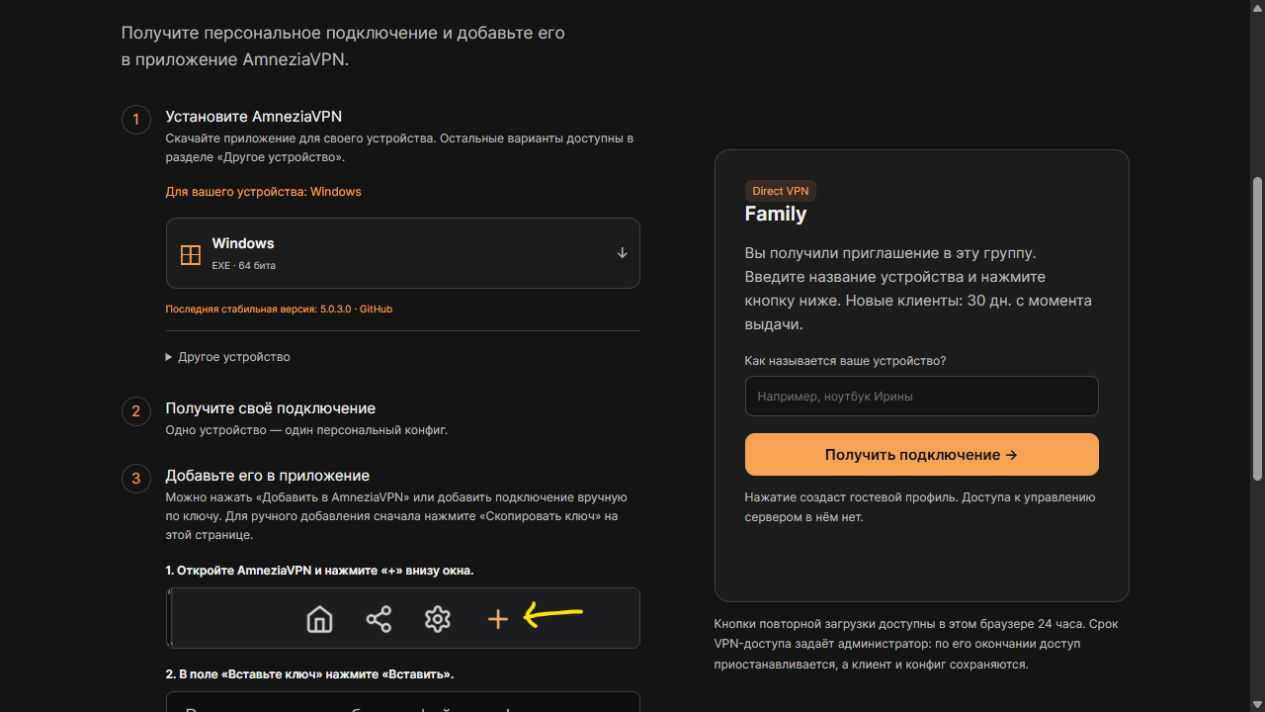
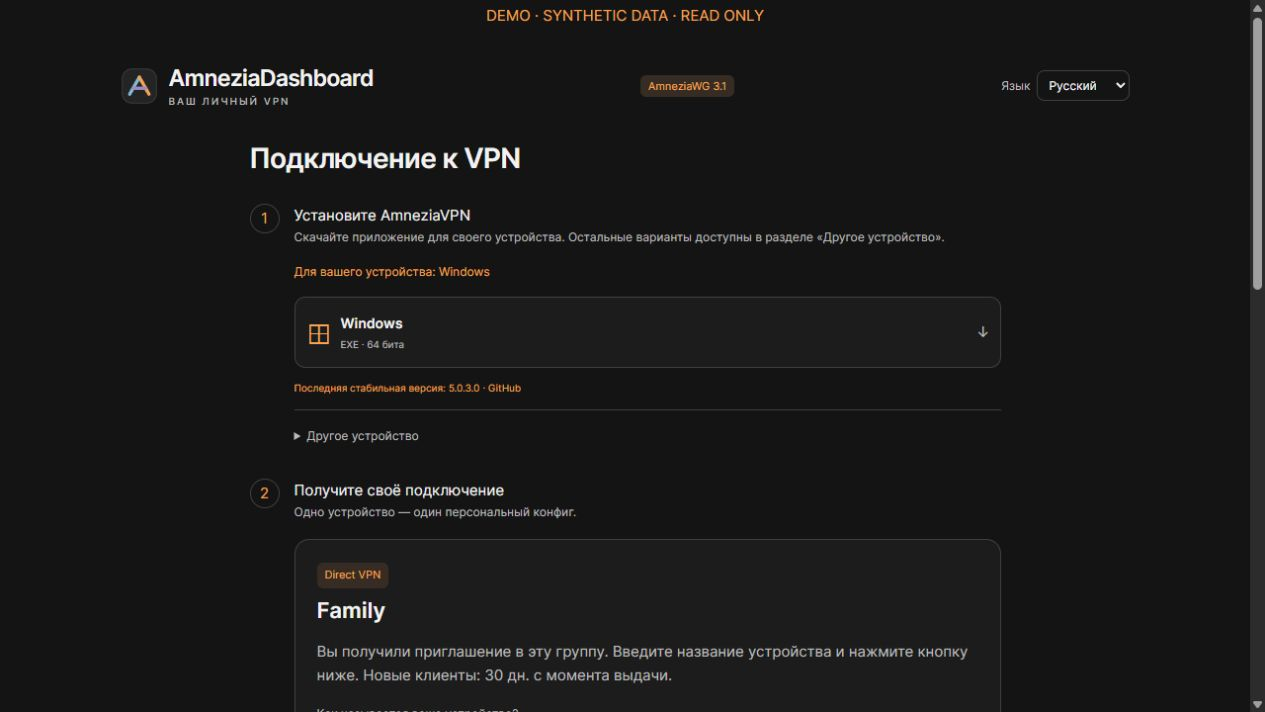
Keep invitation setup personal and place profile issuance in step two

diff --git a/installer/portable/app/static/join.html b/installer/portable/app/static/join.html
@@ -1,4 +1,4 @@
-<!doctype html><html lang="ru"><head><meta charset="utf-8"><meta name="viewport" content="width=device-width,initial-scale=1"><meta name="robots" content="noindex,nofollow"><title>AmneziaDashboard — подключить Amnezia VPN</title><link rel="icon" type="image/svg+xml" href="/static/dashboard-icon.svg"><link rel="stylesheet" href="/static/style.css"><script src="/static/i18n-en.js" defer></script><script src="/static/i18n.js" defer></script><script src="/static/client-access.js" defer></script><script src="/static/profile-import.js" defer></script><script src="/static/device-downloads.js" defer></script><script src="/static/join.js" defer></script></head><body><main class="join"><header><div class="brand"><img class="logo" src="/static/dashboard-icon.svg" alt="" width="36" height="36"><div>AmneziaDashboard<small>ВАШ ЛИЧНЫЙ VPN</small></div></div><span class="badge">AmneziaWG 3.1</span></header><div class="join-layout"><div><div class="eyebrow">Несколько простых шагов</div><h1>Ваш интернет.<br><span>Без лишних сложностей.</span></h1><p class="lead">Получите персональное подключение и добавьте его в приложение AmneziaVPN.</p><ol class="steps"><li>Установите AmneziaVPN<small>Скачайте приложение для своего устройства. Остальные варианты доступны в разделе «Другое устройство».</small>
+<!doctype html><html lang="ru"><head><meta charset="utf-8"><meta name="viewport" content="width=device-width,initial-scale=1"><meta name="robots" content="noindex,nofollow"><title>AmneziaDashboard — подключить Amnezia VPN</title><link rel="icon" type="image/svg+xml" href="/static/dashboard-icon.svg"><link rel="stylesheet" href="/static/style.css"><script src="/static/i18n-en.js" defer></script><script src="/static/i18n.js" defer></script><script src="/static/client-access.js" defer></script><script src="/static/profile-import.js" defer></script><script src="/static/device-downloads.js" defer></script><script src="/static/join.js" defer></script></head><body><main class="join"><header><div class="brand"><img class="logo" src="/static/dashboard-icon.svg" alt="" width="36" height="36"><div>AmneziaDashboard<small>ВАШ ЛИЧНЫЙ VPN</small></div></div><span class="badge">AmneziaWG 3.1</span></header><div class="join-guide"><h1 class="join-page-title">Подключение к VPN</h1><ol class="steps"><li id="step-install">Установите AmneziaVPN<small>Скачайте приложение для своего устройства. Остальные варианты доступны в разделе «Другое устройство».</small>
 <small id="device-download-caption" class="download-device" role="status">Выберите приложение для вашего устройства.</small>
 <div id="device-downloads" class="app-downloads" aria-label="Скачать AmneziaVPN для своего устройства">
 <a class="app-download" href="/download/android" data-platform="android" data-device-os="android"><span class="app-icon" aria-hidden="true">↧</span><span><strong>Android</strong><small data-download-hint="android">APK · Android 11+</small></span><span class="app-arrow" aria-hidden="true">↓</span></a>
@@ -14,10 +14,10 @@
 <small class="download-note" data-device-extra="ios">На iPhone приложение может быть недоступно в российском App Store. <a href="https://docs.amnezia.org/troubleshooting/amneziavpn_is_not_available_in_the_app_store/" target="_blank" rel="noopener noreferrer">Что делать ↗</a></small>
 </div>
 <details id="other-device-downloads" class="download-other" hidden><summary>Другое устройство</summary><div id="other-device-options" class="app-downloads"></div><div id="other-device-notes"></div></details>
-</li><li>Получите своё подключение<small>Одно устройство — один персональный конфиг.</small></li>
-<li>Добавьте его в приложение<small>Можно нажать «Добавить в AmneziaVPN» или добавить подключение вручную по ключу. Для ручного добавления сначала нажмите «Скопировать ключ» на этой странице.</small>
+</li><li id="step-profile">Получите своё подключение<small>Одно устройство — один персональный конфиг.</small><div class="join-profile"><section class="card" aria-labelledby="join-title"><div id="request-view"><span class="badge"><span data-no-i18n>__DASHBOARD_ROUTE_LABEL__</span></span><h2 id="join-title">Подключение по приглашению</h2><p class="muted" id="join-description">Проверяем приглашение…</p><form id="join-form" class="hidden"><label>Как называется ваше устройство?<input name="name" placeholder="Например, ноутбук Ирины" required maxlength="64" autocomplete="off"></label><button class="primary full" id="get-profile" type="submit">Получить подключение →</button><p class="help">Нажатие создаст гостевой профиль. Доступа к управлению сервером в нём нет.</p></form></div><div id="ready-view" class="hidden"><div class="success-icon">✓</div><h2>Всё готово!</h2><p class="muted">Добавьте своё подключение в AmneziaVPN. Приложение должно быть установлено.</p><p id="issued-expiry" class="help"></p><div class="splitbuttons"><button id="import-app" class="primary full" disabled>Добавить в AmneziaVPN ↗</button><p id="import-hint" class="help" role="status"></p><button id="download" class="full">Скачать файл .vpn ↓</button><button id="copy" class="full">Скопировать ключ</button></div><div class="notice">Android: кнопка откроет импорт в AmneziaVPN. iPhone/iPad: выберите AmneziaVPN в системном меню передачи файла. Импорт не включает VPN автоматически — подтвердите добавление и подключение в приложении.</div><p class="help">Не пересылайте свой файл другим людям. Для другого устройства получите отдельный профиль по приглашению.</p></div><p id="join-error" class="error" role="alert"></p></section><p class="help">Кнопки повторной загрузки доступны в этом браузере 24 часа. Срок VPN-доступа задаёт администратор: по его окончании доступ приостанавливается, а клиент и конфиг сохраняются.</p></div></li>
+<li id="step-import">Добавьте его в приложение<small>Можно нажать «Добавить в AmneziaVPN» или добавить подключение вручную по ключу. Для ручного добавления сначала нажмите «Скопировать ключ» на этой странице.</small>
 <div class="key-import-guide" aria-label="Как вставить ключ в AmneziaVPN">
 <figure><figcaption><strong>1. Откройте AmneziaVPN и нажмите «+» внизу окна.</strong></figcaption><img src="/static/amnezia-add-key.png" alt="Нижнее меню AmneziaVPN: жёлтая стрелка указывает на кнопку плюс справа." width="666" height="84" loading="lazy" decoding="async"></figure>
 <figure><figcaption><strong>2. В поле «Вставьте ключ» нажмите «Вставить».</strong></figcaption><img src="/static/amnezia-paste-key.png" alt="Экран добавления подключения AmneziaVPN: поле Вставьте ключ и кнопка Вставить справа." width="658" height="301" loading="lazy" decoding="async"></figure>
 <small>Если появится запрос доступа к буферу обмена, разрешите вставку. Подтвердите добавление подключения, затем нажмите «Подключиться». Вид приложения может немного отличаться на разных устройствах.</small>
-</div></li></ol></div><div><section class="card"><div id="request-view"><span class="badge"><span data-no-i18n>__DASHBOARD_ROUTE_LABEL__</span></span><h2 id="join-title">Подключение по приглашению</h2><p class="muted" id="join-description">Проверяем приглашение…</p><form id="join-form" class="hidden"><label>Как называется ваше устройство?<input name="name" placeholder="Например, ноутбук Ирины" required maxlength="64" autocomplete="off"></label><button class="primary full" id="get-profile" type="submit">Получить подключение →</button><p class="help">Нажатие создаст гостевой профиль. Доступа к управлению сервером в нём нет.</p></form></div><div id="ready-view" class="hidden"><div class="success-icon">✓</div><h2>Всё готово!</h2><p class="muted">Добавьте своё подключение в AmneziaVPN. Приложение должно быть установлено.</p><p id="issued-expiry" class="help"></p><div class="splitbuttons"><button id="import-app" class="primary full" disabled>Добавить в AmneziaVPN ↗</button><p id="import-hint" class="help" role="status"></p><button id="download" class="full">Скачать файл .vpn ↓</button><button id="copy" class="full">Скопировать ключ</button></div><div class="notice">Android: кнопка откроет импорт в AmneziaVPN. iPhone/iPad: выберите AmneziaVPN в системном меню передачи файла. Импорт не включает VPN автоматически — подтвердите добавление и подключение в приложении.</div><p class="help">Не пересылайте свой файл другим людям. Для другого устройства получите отдельный профиль по приглашению.</p></div><p id="join-error" class="error" role="alert"></p></section><p class="help">Кнопки повторной загрузки доступны в этом браузере 24 часа. Срок VPN-доступа задаёт администратор: по его окончании доступ приостанавливается, а клиент и конфиг сохраняются.</p></div></div><footer class="route"><span>Маршрут подключения<br><b><span data-no-i18n>__DASHBOARD_ROUTE_PATH__</span></b></span><span>Только гостевой доступ<br><b>Без паролей сервера и SSH-ключей</b></span></footer></main><div id="toast" class="toast hidden" role="status"></div></body></html>
+</div></li></ol></div><footer class="route"><span>Маршрут подключения<br><b><span data-no-i18n>__DASHBOARD_ROUTE_PATH__</span></b></span><span>Только гостевой доступ<br><b>Без паролей сервера и SSH-ключей</b></span></footer></main><div id="toast" class="toast hidden" role="status"></div></body></html>

diff --git a/installer/portable/app/static/style.css b/installer/portable/app/static/style.css
@@ -21,3 +21,5 @@ button:focus-visible,a:focus-visible,input:focus-visible,select:focus-visible{ou
 .language-switch{display:inline-flex;align-items:center;gap:6px;font-size:12px;color:var(--muted);margin:0}.language-switch select{width:auto;min-width:94px;margin:0;padding:6px 8px;font:inherit}.login .brand{flex-wrap:wrap}.login .language-switch{margin-left:auto}.topbar>.actions{flex-wrap:wrap}.join>header{gap:12px;flex-wrap:wrap}
 .steps .download-device{display:block;color:var(--accent);font-size:12px;margin-top:16px}.app-downloads.device-matched{grid-template-columns:1fr}.download-other{margin-top:14px;border-top:1px solid var(--line);padding-top:10px;font-size:12px;color:var(--muted)}.download-other>summary{cursor:pointer;padding:6px 0}.download-other[hidden]{display:none}.download-other .app-downloads{margin-top:10px}.download-other>summary:focus-visible{outline:2px solid var(--accent);outline-offset:4px;border-radius:4px}
 .traffic-toolbar{display:flex;justify-content:space-between;align-items:center;gap:14px;margin:0 0 18px;flex-wrap:wrap}.traffic-toolbar .traffic-caption{margin:0}.traffic-periods{display:flex;gap:5px}.traffic-period{padding:6px 11px;font-size:11px}.traffic-period[aria-pressed=true]{color:var(--accent);border-color:var(--accent);background:var(--orange-soft)}.traffic-coverage{font-size:11px;color:var(--muted);margin:5px 0 8px}.traffic-bar-tx{fill:var(--accent)}.traffic-bar-rx{fill:#7EBAD2}.traffic-zero{stroke:var(--line);stroke-width:3}.traffic-bar-hit,.traffic-bar-hit.is-selected{fill:transparent;stroke:none;cursor:crosshair}.traffic-bar-selection{fill:none;stroke:var(--purple);stroke-width:1.5;vector-effect:non-scaling-stroke;pointer-events:none;opacity:0}.traffic-bar-selection.is-selected{opacity:1}.traffic-svg:focus-visible{outline:2px solid var(--accent);outline-offset:4px;border-radius:6px}.traffic-readout{display:grid;grid-template-columns:minmax(180px,1fr) minmax(300px,2fr);gap:8px 20px;padding:13px 16px}.traffic-readout>strong{margin:0;align-self:center}.traffic-readout>small{grid-column:1/-1;margin:0}.traffic-chart .help{margin-top:12px}@media(max-width:620px){.traffic-readout{grid-template-columns:1fr;gap:12px}.traffic-toolbar{gap:11px}.traffic-summary{gap:10px}.traffic-tooltip{top:4px}.traffic-period{padding:6px 9px}.traffic-coverage{line-height:1.7}}
+/* Personal connection guide: keep profile issuance inside numbered step two. */
+.join-guide{max-width:760px;margin:36px auto}.join .join-page-title{font-size:28px;line-height:1.2;letter-spacing:-.6px;max-width:none;margin:0 0 28px}.join .steps{margin:0}.join .steps>li{padding-bottom:28px}.join-profile{margin-top:18px;min-width:0}.join .join-profile>.card{padding:22px}.join-profile h2{font-size:22px;line-height:1.3;margin:8px 0 14px}.join-profile>.help{margin:12px 0 0}.join-profile .success-icon{margin-bottom:16px}@media(max-width:760px){.join-guide{margin:28px 0}.join .join-page-title{font-size:25px;margin-bottom:24px}.join .join-profile>.card{padding:18px}.join-profile h2{font-size:20px}}

diff --git a/installer/portable/app/static/i18n-en.js b/installer/portable/app/static/i18n-en.js
@@ -1,5 +1,6 @@
 'use strict';
 globalThis.DashboardEnglish={
+  'Подключение к VPN':'Connect to VPN',
   'Для вашего устройства: ':'For your device: ','Выберите приложение для вашего устройства.':'Choose the app for your device.','Другое устройство':'Another device','Скачайте приложение для своего устройства. Остальные варианты доступны в разделе «Другое устройство».':'Download the app for your device. Other options are under Another device.',
   '32 бит':'32-bit','универсальный':'universal',
   'До ':'Until ','Будет создан отдельный гостевой профиль ':'A separate guest profile will be created for ','. Файл можно скачать в строке устройства.':'. Download the file from the device row.',

diff --git a/installer/portable/app/test_join_guide.py b/installer/portable/app/test_join_guide.py
@@ -14,6 +14,33 @@ IMAGES={'amnezia-add-key.png':'b832bb8bda0b9be8604424e1702991378804ff85b7dd9435a
 
 
 class ImportGuideTests(unittest.TestCase):
+    def test_profile_controls_live_inside_numbered_step_two(self):
+        class Structure(HTMLParser):
+            def __init__(self):super().__init__();self.stack=[];self.controls={};self.steps=[]
+            def handle_starttag(self,tag,attrs):
+                values=dict(attrs);identifier=values.get('id')
+                if tag=='li' and identifier:self.steps.append(identifier)
+                if identifier:
+                    self.controls[identifier]=[a.get('id') for name,a in self.stack if name=='li']
+                if tag not in {'img','input','br','meta','link','hr','source','wbr'}:self.stack.append((tag,values))
+            def handle_endtag(self,tag):
+                for index in range(len(self.stack)-1,-1,-1):
+                    if self.stack[index][0]==tag:self.stack=self.stack[:index];break
+        html=(ROOT/'join.html').read_text(encoding='utf-8');tree=Structure();tree.feed(html)
+        self.assertEqual(tree.steps,['step-install','step-profile','step-import'])
+        for identifier in ('request-view','ready-view','join-form','join-title','join-error','get-profile','import-app','download','copy'):
+            self.assertEqual(tree.controls[identifier],['step-profile'],identifier)
+            self.assertEqual(html.count('id="'+identifier+'"'),1)
+        self.assertLess(html.index('id="join-form"'),html.index('id="step-import"'))
+
+    def test_personal_guide_has_no_marketing_hero(self):
+        html=(ROOT/'join.html').read_text(encoding='utf-8');css=(ROOT/'style.css').read_text(encoding='utf-8')
+        for slogan in ('Ваш интернет.','Без лишних сложностей.','Несколько простых шагов'):
+            self.assertNotIn(slogan,html)
+        self.assertIn('<h1 class="join-page-title">Подключение к VPN</h1>',html)
+        self.assertNotIn('class="join-layout"',html)
+        self.assertIn('.join .join-page-title{font-size:28px',css)
+
     def test_original_screenshots_in_click_order_with_accessible_dimensions(self):
         class Images(HTMLParser):
             def __init__(self):super().__init__();self.images=[]

diff --git a/tools/preview_ui.py b/tools/preview_ui.py
@@ -35,6 +35,8 @@ class Handler(BaseHTTPRequestHandler):
         self.send_response(200);self.send_header('Content-Type',mime);self.send_header('Cache-Control','no-store');self.end_headers();self.wfile.write(payload)
     def do_GET(self):
         path=urlsplit(self.path).path
+        if path=='/preview/mobile':
+            return self.send(b'<!doctype html><html><head><meta charset="utf-8"><title>Mobile invitation preview</title></head><body style="margin:0;background:#141414"><iframe title="Mobile invitation, 390 pixels" src="/j/demo" width="390" height="2300" style="display:block;border:0;max-width:100%"></iframe></body></html>','text/html; charset=utf-8')
         if path=='/api/session':return self.send({'id':1,'username':'owner','role':'super','csrf':'DEMO_NOT_A_CREDENTIAL'})
         if path=='/api/dashboard':return self.send(dashboard())
         if path=='/api/users':return self.send({'users':[{'id':1,'username':'owner','role':'super','enabled':True,'max_devices':150},{'id':2,'username':'demo-admin','role':'admin','enabled':True,'max_devices':25}]})
